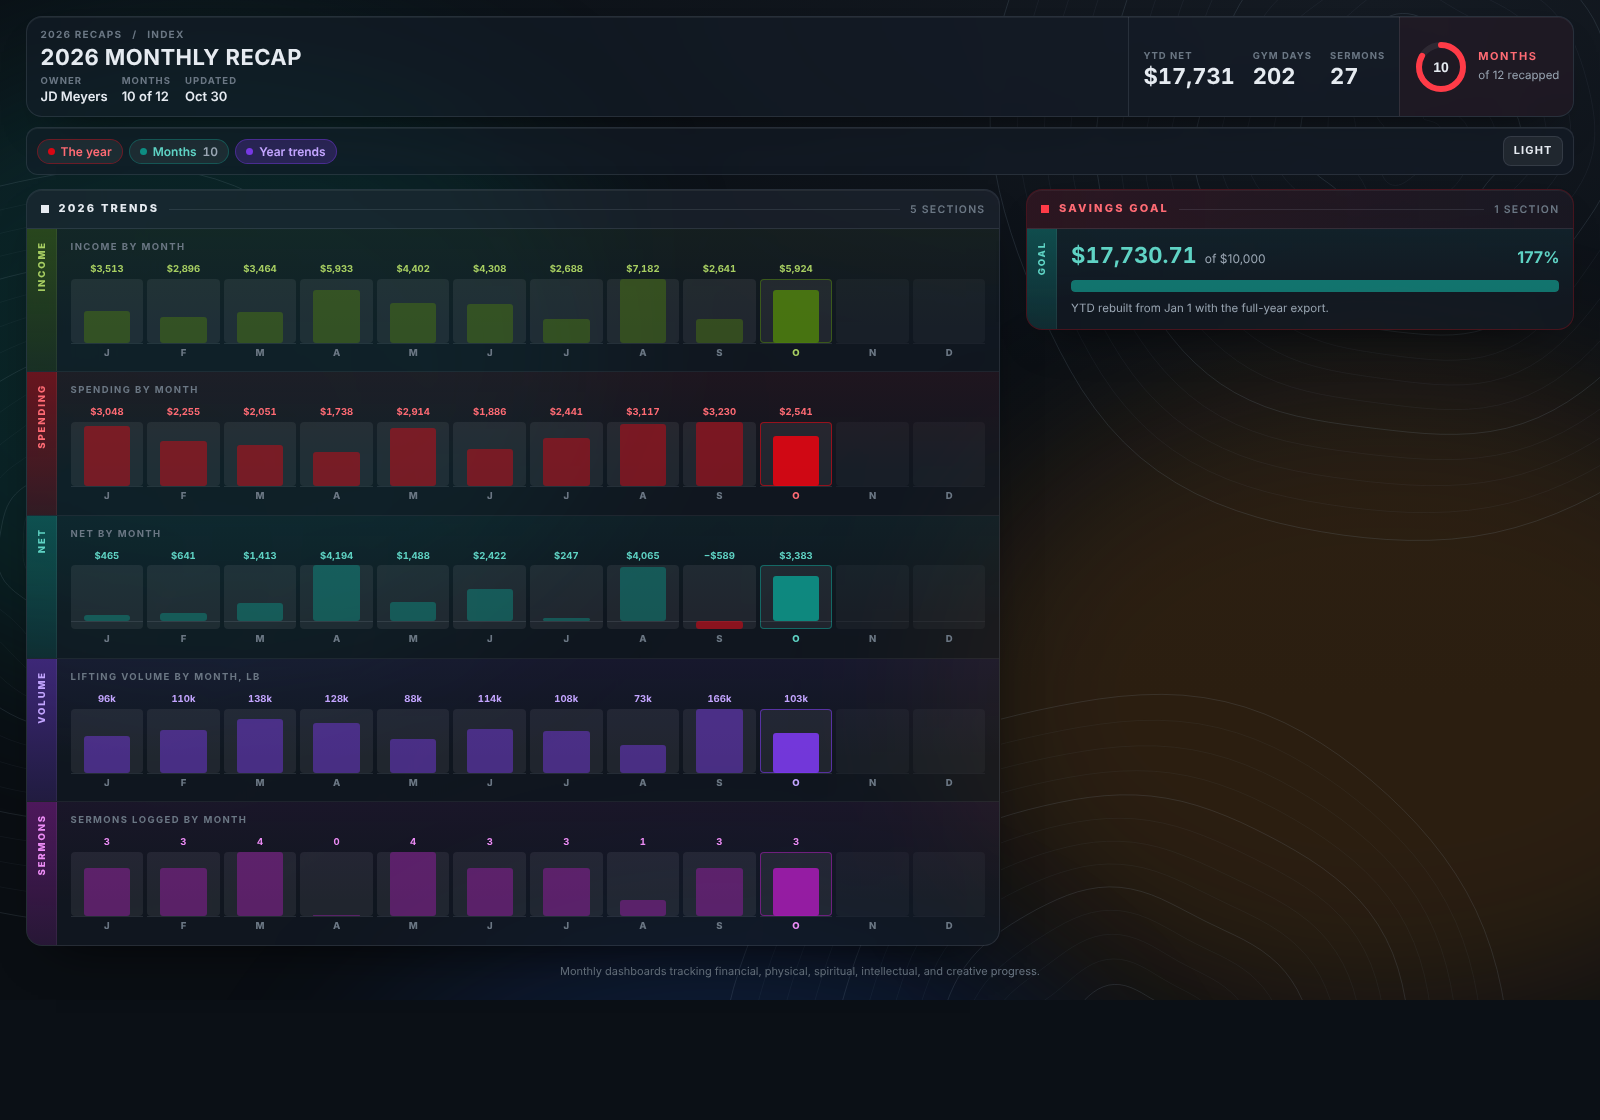
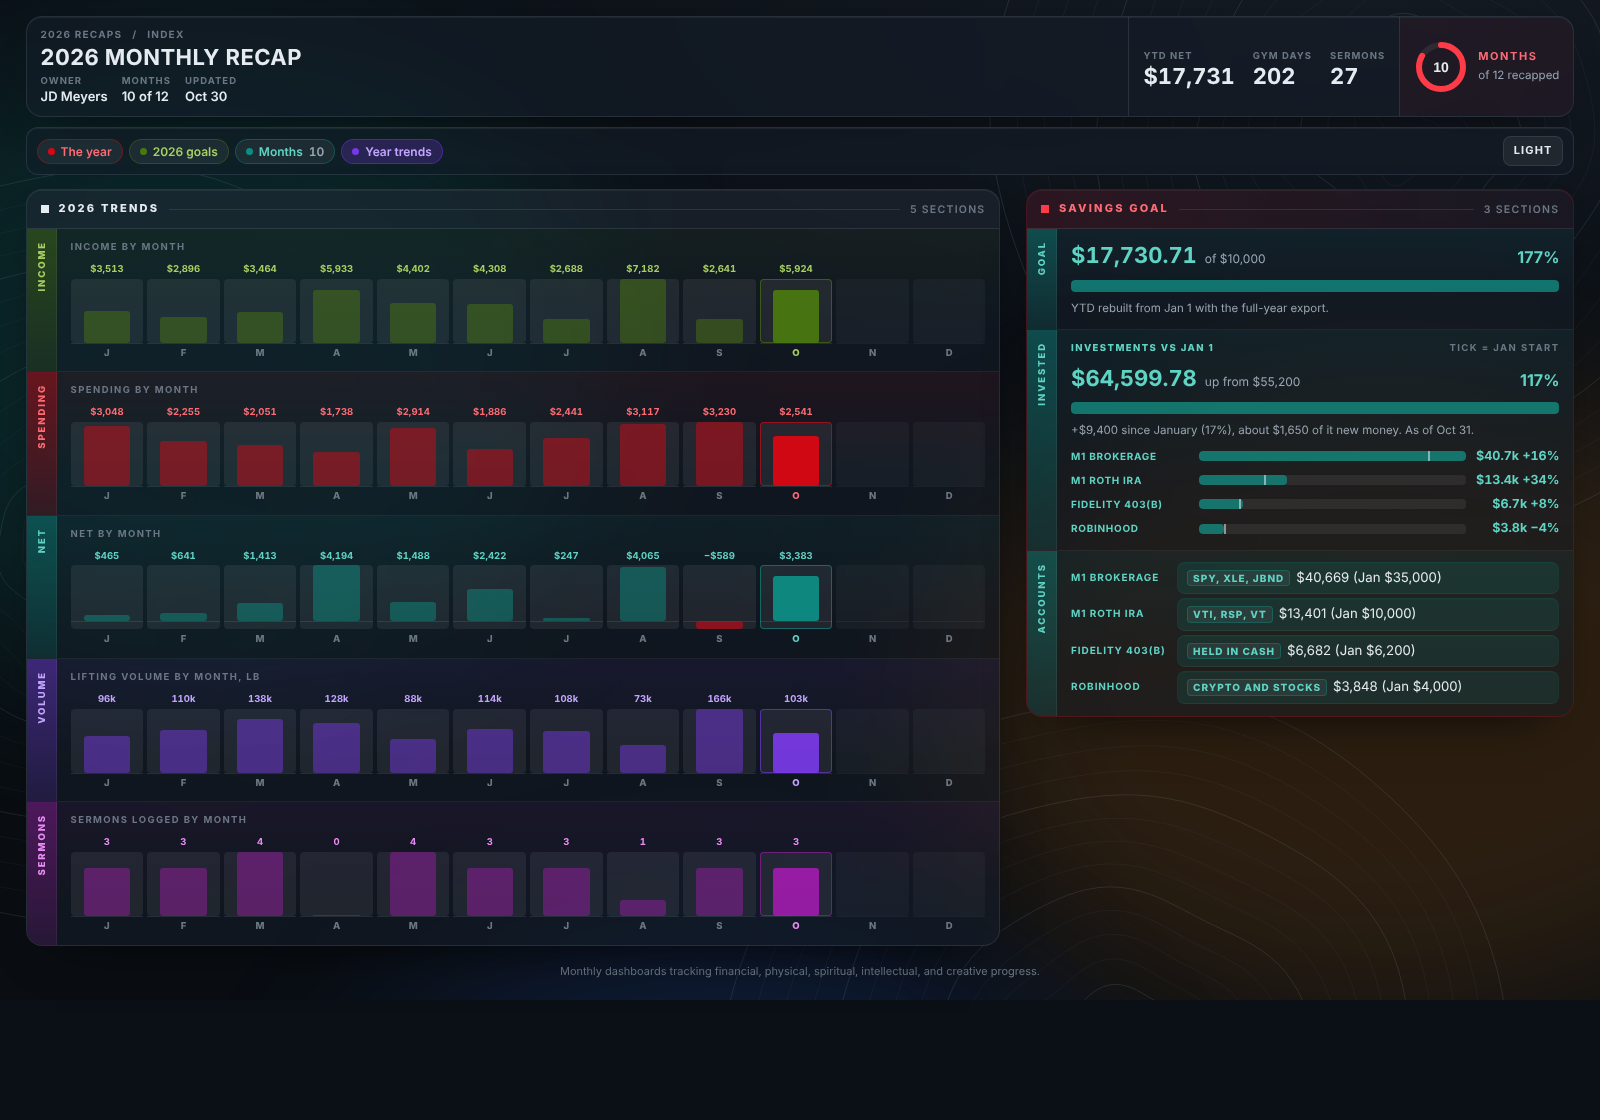
2026 goals scorecard on the index
Claude-Session: https://claude.ai/code/session_01X7LZkzwnUuj1945EJPLkyM

Changed region(s): [[0.625, 0.2812, 1.0, 0.6562], [0.0938, 0.125, 0.2812, 0.1562]]

diff --git a/data/2026-goals.js b/data/2026-goals.js
@@ -1,0 +1,60 @@
+/* 2026 goals, set January 2026, scored through Oct 30.
+   status: met | close | behind | open (not tracked)
+   pct: progress toward the target, 0 to 100 (omit when it does not apply).
+   Sources: data/2026-year.js (money, gym, sermons), FitNotes backup (lifts, runs, plank, push-ups),
+   Projects ledger (shoots), JD (AFT 471, agility test). */
+window.GOALS = {
+  through: 'Oct 30',
+  groups: [
+    { id: 'money', label: 'Money', hue: 'teal', goals: [
+      { goal: 'Save $10,000', actual: '$17,731 saved', status: 'met', pct: 100, note: 'Passed $10k in June' },
+      { goal: 'Tithe $250 every month', actual: '10 of 10 months', status: 'met', pct: 100 },
+      { goal: 'Spend no more than $2,500 a month', actual: '5 of 10 months', status: 'close', pct: 50, note: 'Average $2,522; over in Jan, May, Aug, Sep, Oct' },
+      { goal: 'Keep checking above $1,000', actual: '$4,197 now', status: 'met', pct: 100 },
+      { goal: 'Track investment balances', actual: '$64,600, up 17%', status: 'met', pct: 100, note: 'From $55,200 on Jan 1' }
+    ] },
+    { id: 'fit', label: 'Fitness', hue: 'violet', goals: [
+      { goal: 'AFT: 90+ points in every event', actual: '471 of 500', status: 'met', pct: 94, note: 'Event-by-event scores not recorded' },
+      { goal: 'Trap bar deadlift 230 lb x3', actual: '355 lb x5', status: 'met', pct: 100, note: 'First hit Jan 31' },
+      { goal: '43 hand-release push-ups', actual: '36 push-ups logged', status: 'close', pct: 84, note: 'Best logged set, Oct 13' },
+      { goal: 'Plank 2:25', actual: '3:00', status: 'met', pct: 100 },
+      { goal: 'Two-mile run 15:50', actual: '14:15', status: 'met', pct: 100, note: 'Sep 29' },
+      { goal: '3+ training days every week', actual: '37 of 43 weeks', status: 'close', pct: 86 },
+      { goal: 'Cardio every week', actual: '38 of 43 weeks', status: 'close', pct: 88 }
+    ] },
+    { id: 'pr', label: 'Gym PRs', hue: 'violet', goals: [
+      { goal: 'Deadlift 315 x8', actual: '315 x7', status: 'close', pct: 88, note: 'One rep short, Sep 22' },
+      { goal: 'Bench press 225 x4', actual: '215 x4', status: 'close', pct: 96, note: 'Mar 23' },
+      { goal: 'Dumbbell curl 90 x4', actual: '90 x4', status: 'met', pct: 100, note: 'Jul 21' },
+      { goal: 'Cable crunch 180 x6', actual: '180 x4', status: 'close', pct: 67, note: 'Also 170 x8' },
+      { goal: 'Dumbbell shoulder press 120 x6', actual: '100 x5', status: 'behind', pct: 69 },
+      { goal: 'Cable triceps 80 x8', actual: '60 x8', status: 'behind', pct: 75 }
+    ] },
+    { id: 'faith', label: 'Faith', hue: 'magenta', goals: [
+      { goal: 'Sermon notes every Sunday attended', actual: '27 of 43 Sundays', status: 'close', pct: 63, note: 'No notes in April' },
+      { goal: 'Weekly Bible reading and prayer summary', actual: 'Not tracked here', status: 'open' },
+      { goal: 'Reading plan: Mark to 2 Timothy', actual: 'Not tracked here', status: 'open' }
+    ] },
+    { id: 'learn', label: 'Learning', hue: 'blue', goals: [
+      { goal: 'A study topic every month', actual: '9 of 10 months', status: 'close', pct: 90, note: 'February missed; MBA courses and AFOQT prep took several slots' },
+      { goal: 'One written summary per month', actual: 'Not tracked here', status: 'open' },
+      { goal: 'MBA (added during the year)', actual: '3.83, then 4.0', status: 'met', pct: 100, note: 'Fall term finals Nov 3 to 10' }
+    ] },
+    { id: 'jdm', label: 'Business', hue: 'amber', goals: [
+      { goal: 'Complete 3 to 4 weddings', actual: '7 wedding jobs', status: 'met', pct: 100, note: '3 photo, 4 video' },
+      { goal: 'Complete 6 photo shoots', actual: '9 shoots', status: 'met', pct: 100 }
+    ] },
+    { id: 'career', label: 'Career', hue: 'red', goals: [
+      { goal: 'Run every path at once; let the year narrow it', actual: 'Narrowed as planned', status: 'met', pct: 100, note: 'United closed, OTS retest Nov 30, agility test passed, new job in July' }
+    ] }
+  ],
+  /* month by month: 1 met, 0.5 partial, 0 missed, null not yet */
+  months: [
+    { label: 'Tithe $250', hue: 'teal', vals: [1, 1, 1, 1, 1, 1, 1, 1, 1, 1, null, null] },
+    { label: 'Spend under $2,500', hue: 'teal', vals: [0, 1, 1, 1, 0, 1, 1, 0, 0, 0, null, null] },
+    { label: 'Saved money', hue: 'teal', vals: [1, 1, 1, 1, 1, 1, 1, 1, 0, 1, null, null] },
+    { label: '13+ gym days', hue: 'violet', vals: [1, 1, 1, 1, 1, 1, 1, 0, 1, 1, null, null] },
+    { label: 'Sermon notes', hue: 'magenta', vals: [0.5, 0.5, 0.5, 0, 0.5, 0.5, 0.5, 0.5, 0.5, 0.5, null, null], tips: ['3 of 4', '3 of 4', '4 of 5', '0 of 4', '4 of 5', '3 of 4', '3 of 4', '1 of 5', '3 of 4', '3 of 4'] },
+    { label: 'Study topic', hue: 'blue', vals: [1, 0, 0.5, 1, 1, 1, 0.5, 0.5, 1, 1, null, null], tips: ['Personal finance', 'Missed', 'Swapped for Army MMCS course', 'Leadership (MBA)', 'Marketing (MBA)', 'Military history', 'Swapped for strategy reading', 'Swapped for AFOQT prep', 'MBA fall term', 'MBA fall term'] }
+  ]
+};

diff --git a/assets/ledger.js b/assets/ledger.js
@@ -256,6 +256,44 @@
       }).join('');
       return '<div class="lanes-wrap"><div class="lanes">' + head + rows + '</div></div>';
     },
+    /* 2026 goals scorecard from data/2026-goals.js */
+    goalsum: function () {
+      var G = window.GOALS; if (!G) return '';
+      var all = [].concat.apply([], G.groups.map(function (g) { return g.goals; }));
+      var ST = [['met', 'Met', 'green'], ['close', 'Close', 'amber'], ['behind', 'Behind', 'red'], ['open', 'Not tracked', 'slate']];
+      var n = {}; all.forEach(function (x) { n[x.status] = (n[x.status] || 0) + 1; });
+      var bar = ST.map(function (s) { return n[s[0]] ? '<i class="' + s[2] + '" style="flex:' + n[s[0]] + '" title="' + s[1] + ': ' + n[s[0]] + '"></i>' : ''; }).join('');
+      var tiles = ST.map(function (s) { return '<div class="gs-t ' + s[2] + '"><b>' + (n[s[0]] || 0) + '</b><span>' + s[1] + '</span></div>'; }).join('');
+      var pillars = G.groups.map(function (g) {
+        var m = g.goals.filter(function (x) { return x.status === 'met'; }).length, t = g.goals.filter(function (x) { return x.status !== 'open'; }).length;
+        return '<div class="gs-p ' + g.hue + '"><span>' + esc(g.label) + '</span><div class="hbar"><i style="width:' + (t ? m / t * 100 : 0).toFixed(1) + '%"></i></div><b>' + m + '/' + t + '</b></div>';
+      }).join('');
+      return '<div class="gs"><div class="gs-big"><b class="num">' + (n.met || 0) + '</b><span>of ' + all.length + ' goals met</span></div><div class="gs-bar">' + bar + '</div><div class="gs-tiles">' + tiles + '</div><div class="gs-pillars">' + pillars + '</div></div>';
+    },
+    goalset: function (b) {
+      var G = window.GOALS; if (!G) return '';
+      var g = G.groups.filter(function (x) { return x.id === b.group; })[0]; if (!g) return '';
+      var LBL = { met: 'Met', close: 'Close', behind: 'Behind', open: 'Not tracked' };
+      return '<div class="gl">' + g.goals.map(function (x) {
+        var p = x.pct != null ? Math.max(3, Math.min(100, x.pct)) : 0;
+        return '<div class="gl-r ' + x.status + '"><span class="gl-s">' + LBL[x.status] + '</span><div class="gl-m"><div class="gl-g">' + esc(x.goal) + '</div>' +
+          (x.status !== 'open' ? '<div class="hbar"><i style="width:' + p.toFixed(1) + '%"></i></div>' : '') +
+          (x.note ? '<div class="gl-n">' + esc(x.note) + '</div>' : '') + '</div><b class="gl-a">' + esc(x.actual) + '</b></div>';
+      }).join('') + '</div>';
+    },
+    checks: function () {
+      var G = window.GOALS; if (!G) return '';
+      var MO = ['J', 'F', 'M', 'A', 'M', 'J', 'J', 'A', 'S', 'O', 'N', 'D'], MN = ['Jan', 'Feb', 'Mar', 'Apr', 'May', 'Jun', 'Jul', 'Aug', 'Sep', 'Oct', 'Nov', 'Dec'];
+      var head = '<span></span>' + MN.map(function (x) { return '<i>' + x + '</i>'; }).join('');
+      var rows = G.months.map(function (r) {
+        return '<span class="ck-k ' + r.hue + '">' + esc(r.label) + '</span>' + r.vals.map(function (v, i) {
+          var c = v == null ? 'ck-x' : v >= 1 ? 'ck-1' : v > 0 ? 'ck-h' : 'ck-0';
+          var tip = MN[i] + ': ' + (r.tips && r.tips[i] ? r.tips[i] : v == null ? 'ahead' : v >= 1 ? 'met' : v > 0 ? 'partly' : 'missed');
+          return '<em class="' + c + ' ' + r.hue + '" title="' + esc(tip) + '"></em>';
+        }).join('');
+      }).join('');
+      return '<div class="ck-wrap"><div class="ck">' + head + rows + '</div></div><div class="key ck-key"><span><em class="ck-1 slate"></em>Met</span><span><em class="ck-h slate"></em>Partly</span><span><em class="ck-0 slate"></em>Missed</span><span><em class="ck-x slate"></em>Ahead</span></div>';
+    },
     words: function (b) {
       var ST = window.STORY; if (!ST) return '';
       return '<div class="words">' + ST.words.filter(function (w) { return !b.only || b.only.indexOf(w[0]) > -1; }).map(function (w) {

diff --git a/assets/ledger.css b/assets/ledger.css
@@ -357,3 +357,52 @@ a.ym:hover .yb{box-shadow:inset 0 0 0 1px rgba(var(--c),.4)}
 }
 @media (prefers-reduced-motion:reduce){.layer{transform:none!important}}
 @media print{.bg,.bar,.toggle,.monthnav,.up{display:none}.glass{backdrop-filter:none;-webkit-backdrop-filter:none}}
+
+/* goals scorecard */
+.gs{display:grid;gap:14px}
+.gs-big{display:flex;align-items:baseline;gap:10px}
+.gs-big b{font-size:44px;font-weight:800;line-height:1;color:var(--text)}
+.gs-big span{font-size:14px;color:var(--muted);font-weight:600}
+.gs-bar{display:flex;height:16px;border-radius:6px;overflow:hidden;gap:2px}
+.gs-bar i{display:block;background:rgba(var(--c),.9)}
+.gs-tiles{display:grid;grid-template-columns:repeat(4,minmax(0,1fr));gap:8px}
+.gs-t{border-radius:10px;padding:10px 12px;background:rgba(var(--c),var(--fill-a));border:1px solid rgba(var(--c),.3)}
+.gs-t b{display:block;font-size:24px;font-weight:800;color:var(--k);line-height:1.1}
+.gs-t span{font-size:10.5px;font-weight:800;letter-spacing:.06em;text-transform:uppercase;color:var(--muted)}
+.gs-pillars{display:grid;gap:8px;margin-top:4px}
+.gs-p{display:grid;grid-template-columns:90px minmax(0,1fr) 40px;gap:10px;align-items:center}
+.gs-p span{font-size:11px;font-weight:800;letter-spacing:.06em;text-transform:uppercase;color:var(--k)}
+.gs-p b{font-size:12px;text-align:right;color:var(--text)}
+.gl{display:grid;gap:2px}
+.gl-r{display:grid;grid-template-columns:86px minmax(0,1fr) auto;gap:12px;align-items:start;padding:10px 0;border-top:1px solid var(--hair)}
+.gl-r:first-child{border-top:0;padding-top:2px}
+.gl-s{font-size:10px;font-weight:800;letter-spacing:.06em;text-transform:uppercase;text-align:center;padding:4px 0;border-radius:6px;margin-top:1px}
+.gl-r.met .gl-s{background:rgba(var(--h-green),.2);color:var(--ink-green)}
+.gl-r.close .gl-s{background:rgba(var(--h-amber),.2);color:var(--ink-amber)}
+.gl-r.behind .gl-s{background:rgba(var(--h-red),.2);color:var(--ink-red)}
+.gl-r.open .gl-s{background:rgba(var(--h-slate),.2);color:var(--muted)}
+.gl-g{font-size:13.5px;font-weight:700;color:var(--text);line-height:1.35}
+.gl-m .hbar{margin-top:7px;height:6px}
+.gl-r.met .hbar i{background:rgb(var(--h-green))}
+.gl-r.close .hbar i{background:rgb(var(--h-amber))}
+.gl-r.behind .hbar i{background:rgb(var(--h-red))}
+.gl-n{font-size:11.5px;color:var(--muted);margin-top:5px;line-height:1.4}
+.gl-a{font-size:13px;font-weight:800;color:var(--text);text-align:right;white-space:nowrap;padding-top:1px}
+.gl-r.open .gl-a{color:var(--faint);font-weight:600}
+.ck-wrap{overflow-x:auto}
+.ck{display:grid;grid-template-columns:150px repeat(12,minmax(22px,1fr));gap:6px;align-items:center;min-width:480px}
+.ck i{font-style:normal;font-size:10px;font-weight:800;letter-spacing:.06em;text-transform:uppercase;color:var(--faint);text-align:center}
+.ck-k{font-size:11px;font-weight:800;letter-spacing:.05em;text-transform:uppercase;color:var(--k)}
+.ck em,.ck-key em{display:block;height:22px;border-radius:6px}
+.ck-key em{display:inline-block;width:14px;height:14px;vertical-align:-3px;margin-right:6px}
+.ck-1{background:rgba(var(--c),.9)}
+.ck-h{background:linear-gradient(90deg,rgba(var(--c),.9) 50%,rgba(var(--c),.18) 50%)}
+.ck-0{background:transparent;box-shadow:inset 0 0 0 2px rgba(var(--h-red),.75)}
+.ck-x{background:rgba(var(--c),.07);box-shadow:inset 0 0 0 1px var(--hair)}
+.ck-key{margin-top:12px}
+@media (max-width:600px){
+  .gs-tiles{grid-template-columns:repeat(2,minmax(0,1fr))}
+  .gl-r{grid-template-columns:minmax(0,1fr) auto}
+  .gl-s{grid-column:1/-1;justify-self:start;padding:3px 8px}
+  .ck{grid-template-columns:104px repeat(12,minmax(18px,1fr));gap:4px}
+}

diff --git a/data/index-page.js b/data/index-page.js
@@ -60,11 +60,23 @@
           { hue: 'violet', spine: 'In my words', blocks: [{ type: 'words' }] }
         ],
         side: [
+          { hue: 'green', spine: 'Goals', blocks: [{ type: 'goalsum' }, { type: 'rows', items: [{ text: 'Open the full scorecard', href: '#goals' }] }] },
           { hue: 'red', spine: 'Now', type: 'kv', items: [['OTS', 'AFOQT retest Nov 30; board Jan 2027', { tag: 'Active' }], ['Job', 'Administrative Coordinator, Lewis School', { tag: 'Since Jul 20' }],
             ['MBA', 'Fall finals by Nov 10; May 2027 target'], ['Guard', 'ETS June 2027; last AFT 471 of 500'], ['Civil service', 'Sheriff\u2019s deputy agility test passed Oct 30'], ['Business', 'Studio launched in October']] },
           { hue: 'teal', spine: 'Totals', type: 'kv', items: [['YTD net', '$' + Math.round(ytd).toLocaleString('en-US'), { big: true }], ['Gym days', String(sum(Y.gymDays)), { big: true }], ['Sermons', String(sum(Y.sermons))]] },
           investBand,
           { hue: 'teal', spine: 'Net', blocks: [{ type: 'sub', text: 'Net by month' }, { type: 'year', metric: 'net', fmt: 'money' }] }
+        ] },
+      { id: 'goals', label: '2026 goals', hue: 'green', mainLabel: 'Goals, set January 2026', sideLabel: 'Scorecard',
+        main: [
+          { hue: 'slate', spine: 'By month', blocks: [{ type: 'sub', text: 'The monthly goals, month by month', right: 'through ' + (window.GOALS ? window.GOALS.through : '') }, { type: 'checks' }] }
+        ].concat((window.GOALS ? window.GOALS.groups : []).map(function (g) {
+          var met = g.goals.filter(function (x) { return x.status === 'met'; }).length;
+          return { hue: g.hue, spine: g.label, blocks: [{ type: 'sub', text: g.label, right: met + ' of ' + g.goals.length + ' met' }, { type: 'goalset', group: g.id }] };
+        })),
+        side: [
+          { hue: 'green', spine: 'Score', blocks: [{ type: 'goalsum' }] },
+          investBand
         ] },
       { id: 'months', label: 'Months', hue: 'teal', count: latest + 1, mainLabel: '2026 by month', sideLabel: 'The year so far',
         main: [

diff --git a/index.html b/index.html
@@ -13,6 +13,7 @@
 <body>
 <script src="data/2026-year.js"></script>
 <script src="data/2026-story.js"></script>
+<script src="data/2026-goals.js"></script>
 <script src="data/index-page.js"></script>
 <script src="assets/ledger.js"></script>
 <noscript><p style="padding:24px">This page needs JavaScript to display.</p></noscript>
